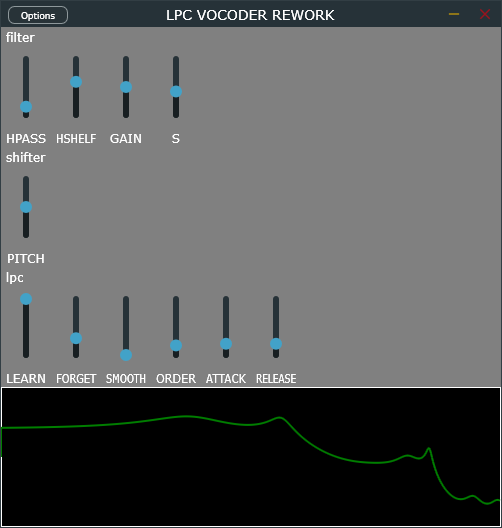
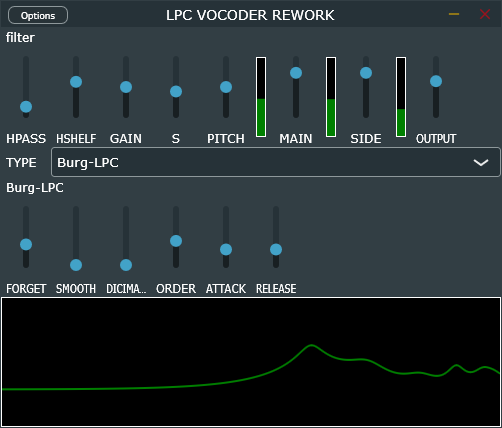
update

diff --git a/src/dsp/stft_vocoder.cpp b/src/dsp/stft_vocoder.cpp
@@ -61,9 +61,9 @@ void STFTVocoder::Process(std::span<float> block, std::span<float> block2) {
         fft_.fft(side_timeBuffer, side_real.data(), side_imag.data());
 
         // spectral processing
-        float g = 1.0f / (kFFTSize / 2.0f);
+        // float g = 1.0f / (kFFTSize / 2.0f);
         for (int i = 1; i < kNumBins; ++i) {
-            float v = std::abs(main_real[i] * main_real[i] + main_imag[i] * main_imag[i]) * g;
+            float v = std::abs(main_real[i] * main_real[i] + main_imag[i] * main_imag[i]) * window_gain_;
             v = Blend(v);
             gains_[i] = decay_ * gains_[i] + (1 - decay_) * v;
             
@@ -117,6 +117,9 @@ void STFTVocoder::SetBandwidth(float bw) {
         float sinc = std::abs(x) < 1e-6 ? 1.0f : std::sin(x) / x;
         window_[i] = sinc * hann_window_[i];
     }
+    // keep energy
+    float sum = std::accumulate(window_.begin(), window_.end(), 0.0f);
+    window_gain_ = 2.0f / sum;
 }
 
 float STFTVocoder::Blend(float x) {

diff --git a/src/widget/stft_vocoder.cpp b/src/widget/stft_vocoder.cpp
@@ -56,10 +56,10 @@ void STFTVocoder::paint(juce::Graphics& g) {
         mul_begin *= mul_val;
         
         int idx = static_cast<int>(omega * gains.size());
-        idx = std::min<int>(idx, gains.size() - 1);
+        idx = std::min<int>(idx, static_cast<int>(gains.size()) - 1);
         float gain = gains[idx];
         float db_gain = 20.0f * std::log10(gain + 1e-10f);
-        float y_nor = (db_gain - (-96.0f)) / (10.0f - (-96.0f));
+        float y_nor = (db_gain - (-100.0f)) / (20.0f - (-100.0f));
         float y = b.getBottom() - y_nor * b.getHeight();
         juce::Point line_end{ static_cast<float>(x + b.toFloat().getX()), y };
         g.drawLine(juce::Line<float>{line_last, line_end}, 2.0f);

diff --git a/src/dsp/stft_vocoder.hpp b/src/dsp/stft_vocoder.hpp
@@ -32,10 +32,11 @@ private:
     int numInput_{};
     int writeEnd_{};
     int writeAddBegin_{};
-    float bandwidth_{0.5f};
+    float bandwidth_{};
     float decay_{};
     float sample_rate_{};
     float blend_{};
+    float window_gain_{};
 };
 
 }
